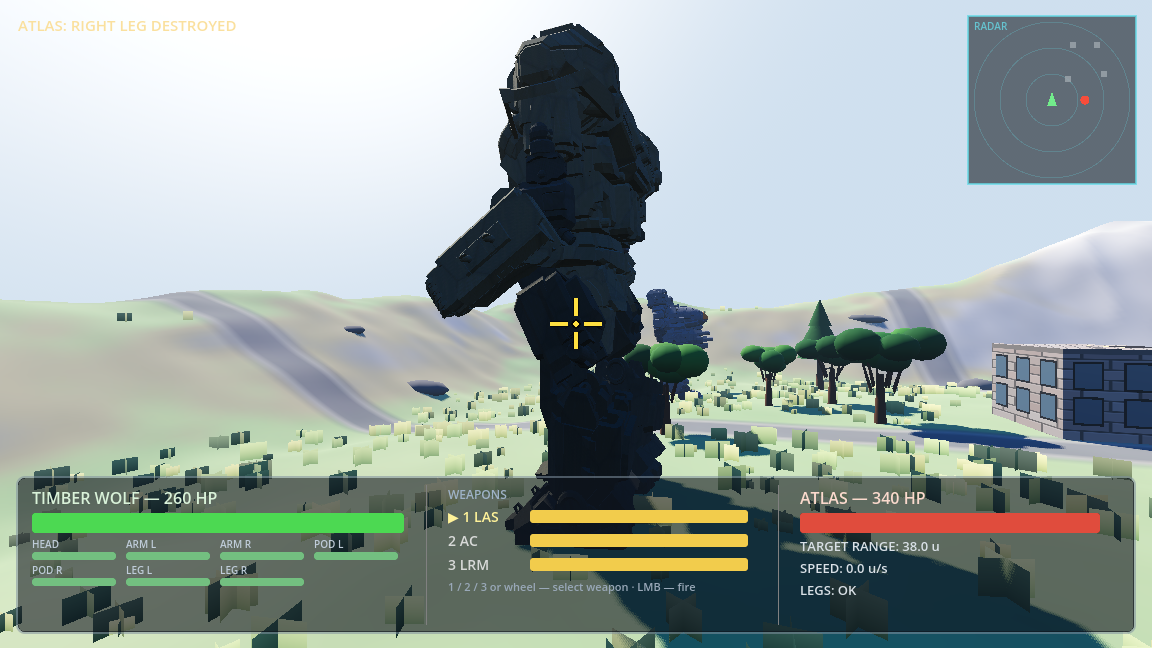
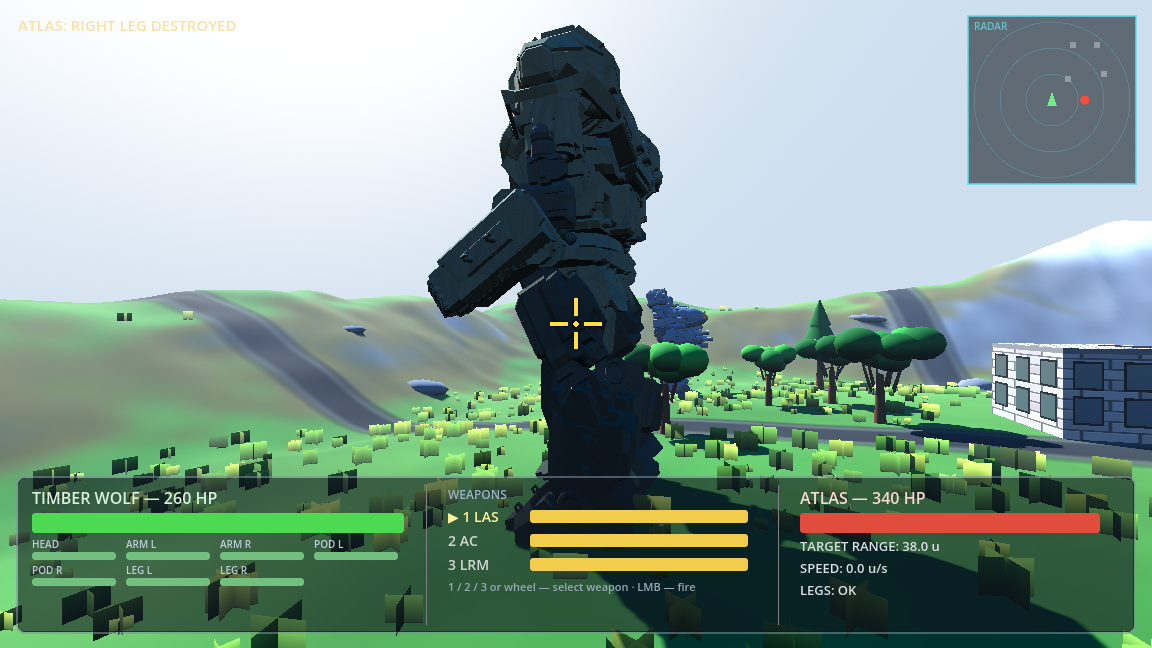
proof: restore facing before the AIM capture; round-8 frames
The TORSO-INDEP step left the legs yawed +0.9 rad, so the proof pose faced away from the Atlas and the reticle clamped to a screen corner. The step now restores the original legs yaw first: duel_aim.png shows the reticle sitting on the Atlas's head — the true aim point at that pitch, which is the round-8 claim. All four suites green on the final code (weapons re-run separately after the first batch process died with the VM session — logs verify25/25b).

diff --git a/godot/MechDuel.cs b/godot/MechDuel.cs
@@ -2760,6 +2760,10 @@ public partial class MechDuel : Node3D
                         if (torsoDrift > 0.05f)
                         { GD.PrintErr($"DUEL FAIL: legs dragged the torso by {torsoDrift:F3} rad (mouse must own the bearing)"); GetTree().Quit(1); break; }
                         GD.Print($"DUEL AIM TORSO-INDEP PASS legs turned {legsTurned:F2} rad under a fixed mouse bearing; torso drift {torsoDrift:F3} rad");
+                        // Restore the original facing for the proof
+                        // frame (the spin left the legs yawed away).
+                        _playerYaw = _aimLegs0;
+                        _player.SetDrive(_playerYaw, 0f);
                         // Proof frame: torso pitched up — the reticle
                         // sits on the true aim point above the Atlas.
                         _player.TorsoTwist = 0f;
